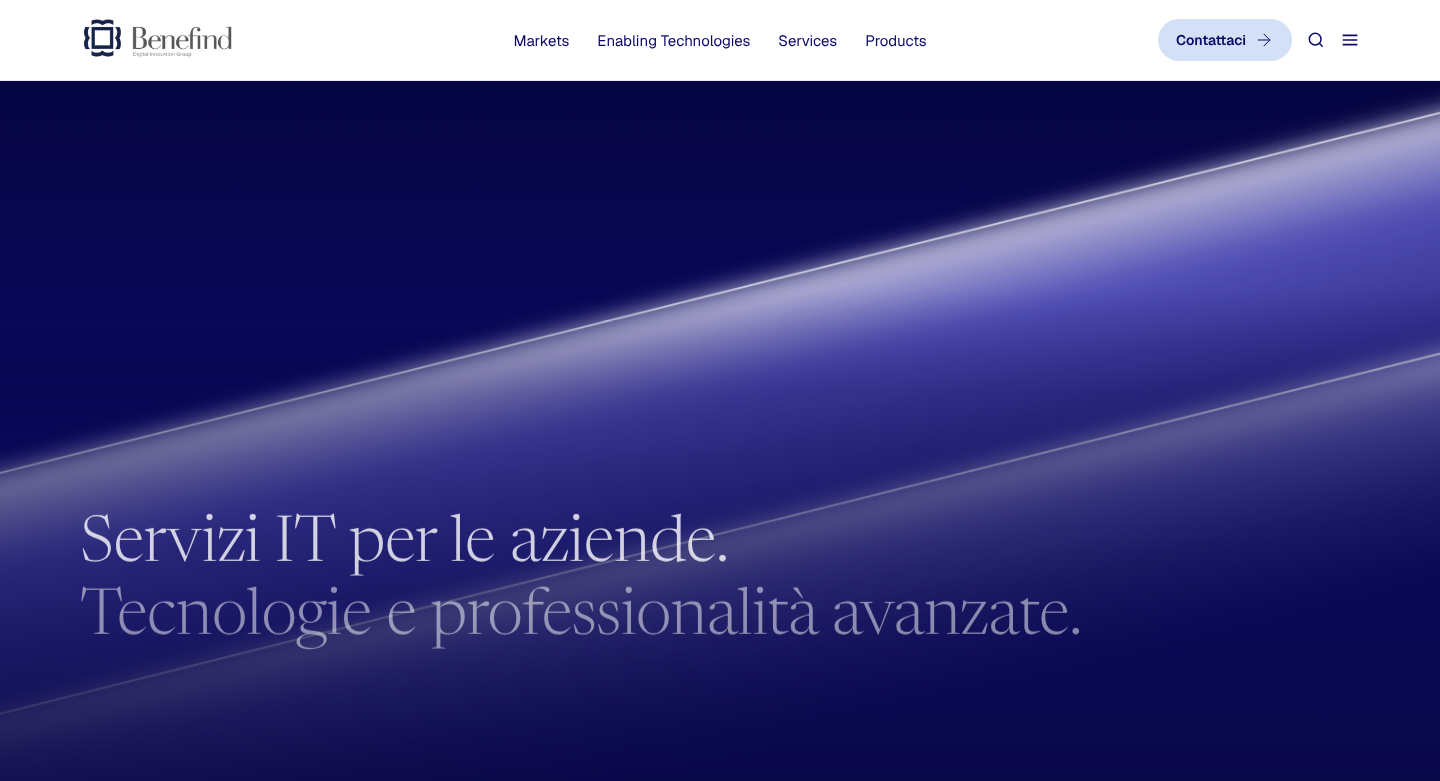
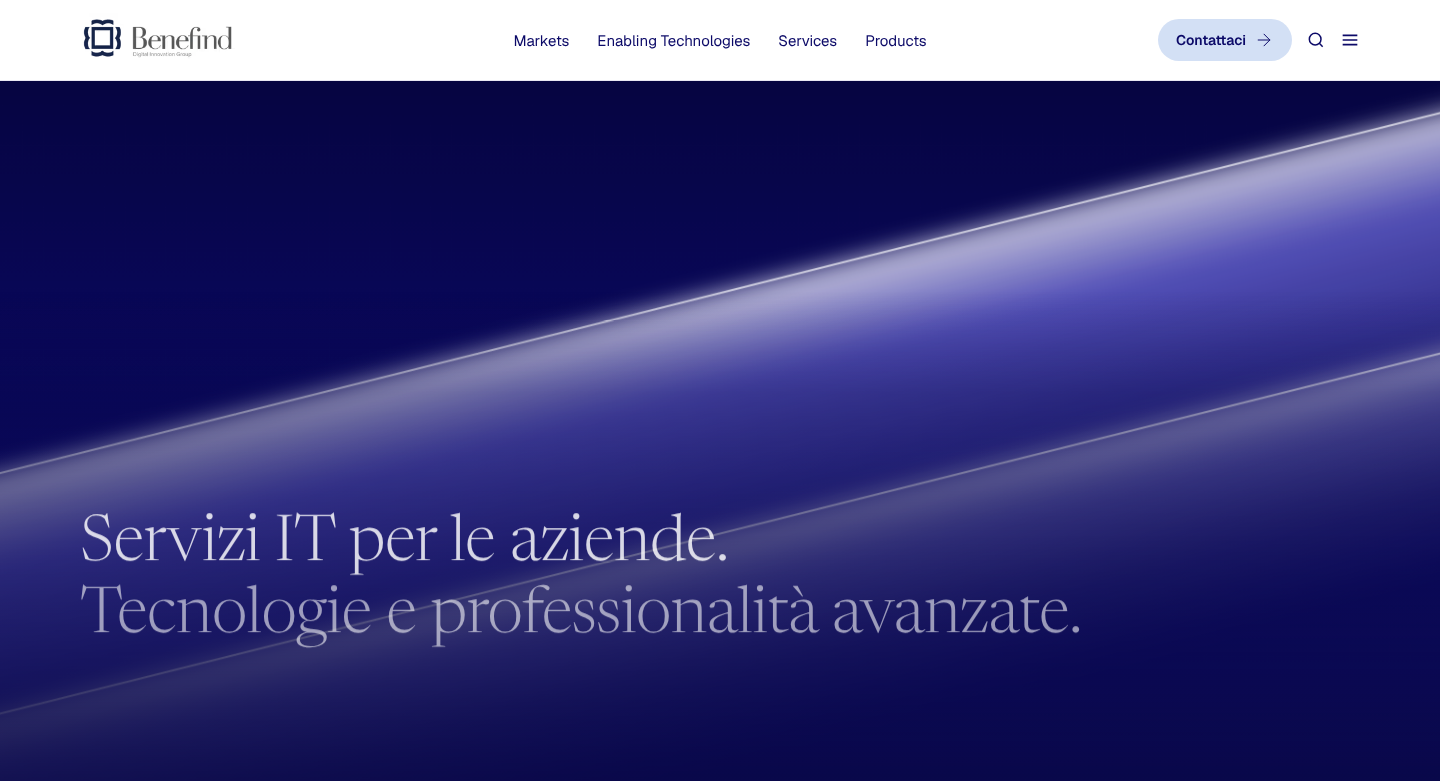
Fix Markets slider CTA jumping when slides change
The CTA was absolutely positioned inside a column that gets a transform on inactive
slides, so its containing block switched and it jumped (40,391 → 80,443). It is now in
flow, pinned to the bottom, and excluded from the slide-in transform.

Claude-Session: https://claude.ai/code/session_013oMfEn9aT1gQBNvAhmLJQX

diff --git a/components/sections/Markets.module.css b/components/sections/Markets.module.css
@@ -136,10 +136,10 @@
   margin-top: 0.5px;
 }
 
+/* Figma: CTA at y391 = pinned 44px above the content bottom (in flow, so the slide transform can't move it) */
 .cta {
-  position: absolute;
-  left: 40px;
-  top: 391px;
+  margin-top: auto;
+  margin-bottom: 44px;
 }
 
 /* Photo 738 × 346 at x503 / y137 */
@@ -173,26 +173,35 @@
 }
 
 /* M11: the active slide's content settles in; neighbours stay quietly dimmed. */
-.left,
+/* The column itself never transforms (keeps the CTA fixed); its text and the photo settle in. */
+.left > :not(.cta),
 .right {
   transition:
     opacity 500ms var(--ease-out),
     transform 500ms var(--ease-out);
 }
 
-.slide:not([data-active]) .left,
+.slide:not([data-active]) .left > :not(.cta),
 .slide:not([data-active]) .right {
   opacity: 0.5;
   transform: translate3d(0, 12px, 0);
 }
 
+.cta {
+  transition: opacity 500ms var(--ease-out);
+}
+
+.slide:not([data-active]) .cta {
+  opacity: 0.5;
+}
+
 @media (prefers-reduced-motion: reduce) {
-  .left,
+  .left > :not(.cta),
   .right {
     transition: opacity 200ms linear;
   }
 
-  .slide:not([data-active]) .left,
+  .slide:not([data-active]) .left > :not(.cta),
   .slide:not([data-active]) .right {
     transform: none;
   }
@@ -222,7 +231,8 @@
   }
 
   .cta {
-    position: static;
+    margin-top: 0;
+    margin-bottom: 0;
   }
 
   .right {
